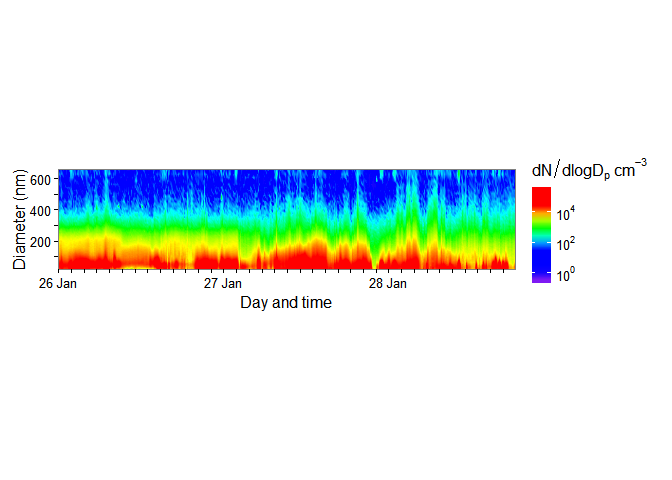
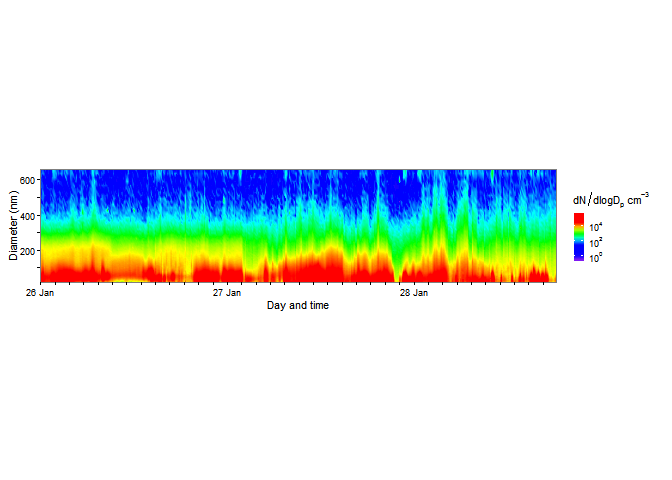
update readme

Changed region(s): [[0.0, 0.3438, 0.9688, 0.6562]]

diff --git a/README.md b/README.md
@@ -80,10 +80,10 @@ smps_plot(prepared_data,
 Because the output is a ggplot object, we can add elements to it like a regular `ggplot()` call:
 
 ``` r
-smps_plot(prepared_data) + 
-  theme(legend.key.size = unit(0.2, "in") )
+smps_plot(prepared_data, font_size = 8) + 
+  theme(legend.key.size = unit(0.1, "in") )
 ```
 
 ![](README-unnamed-chunk-8-1.png)<!-- -->
 
-Please note that this project is released with a [Contributor Code of Conduct](CONDUCT.md). By participating in this project you agree to abide by its terms.
+Please note that this project is released with a [Guide to Contributing](CONTRIBUTING.md) and a [Contributor Code of Conduct](CONDUCT.md). By participating in this project you agree to abide by its terms.
